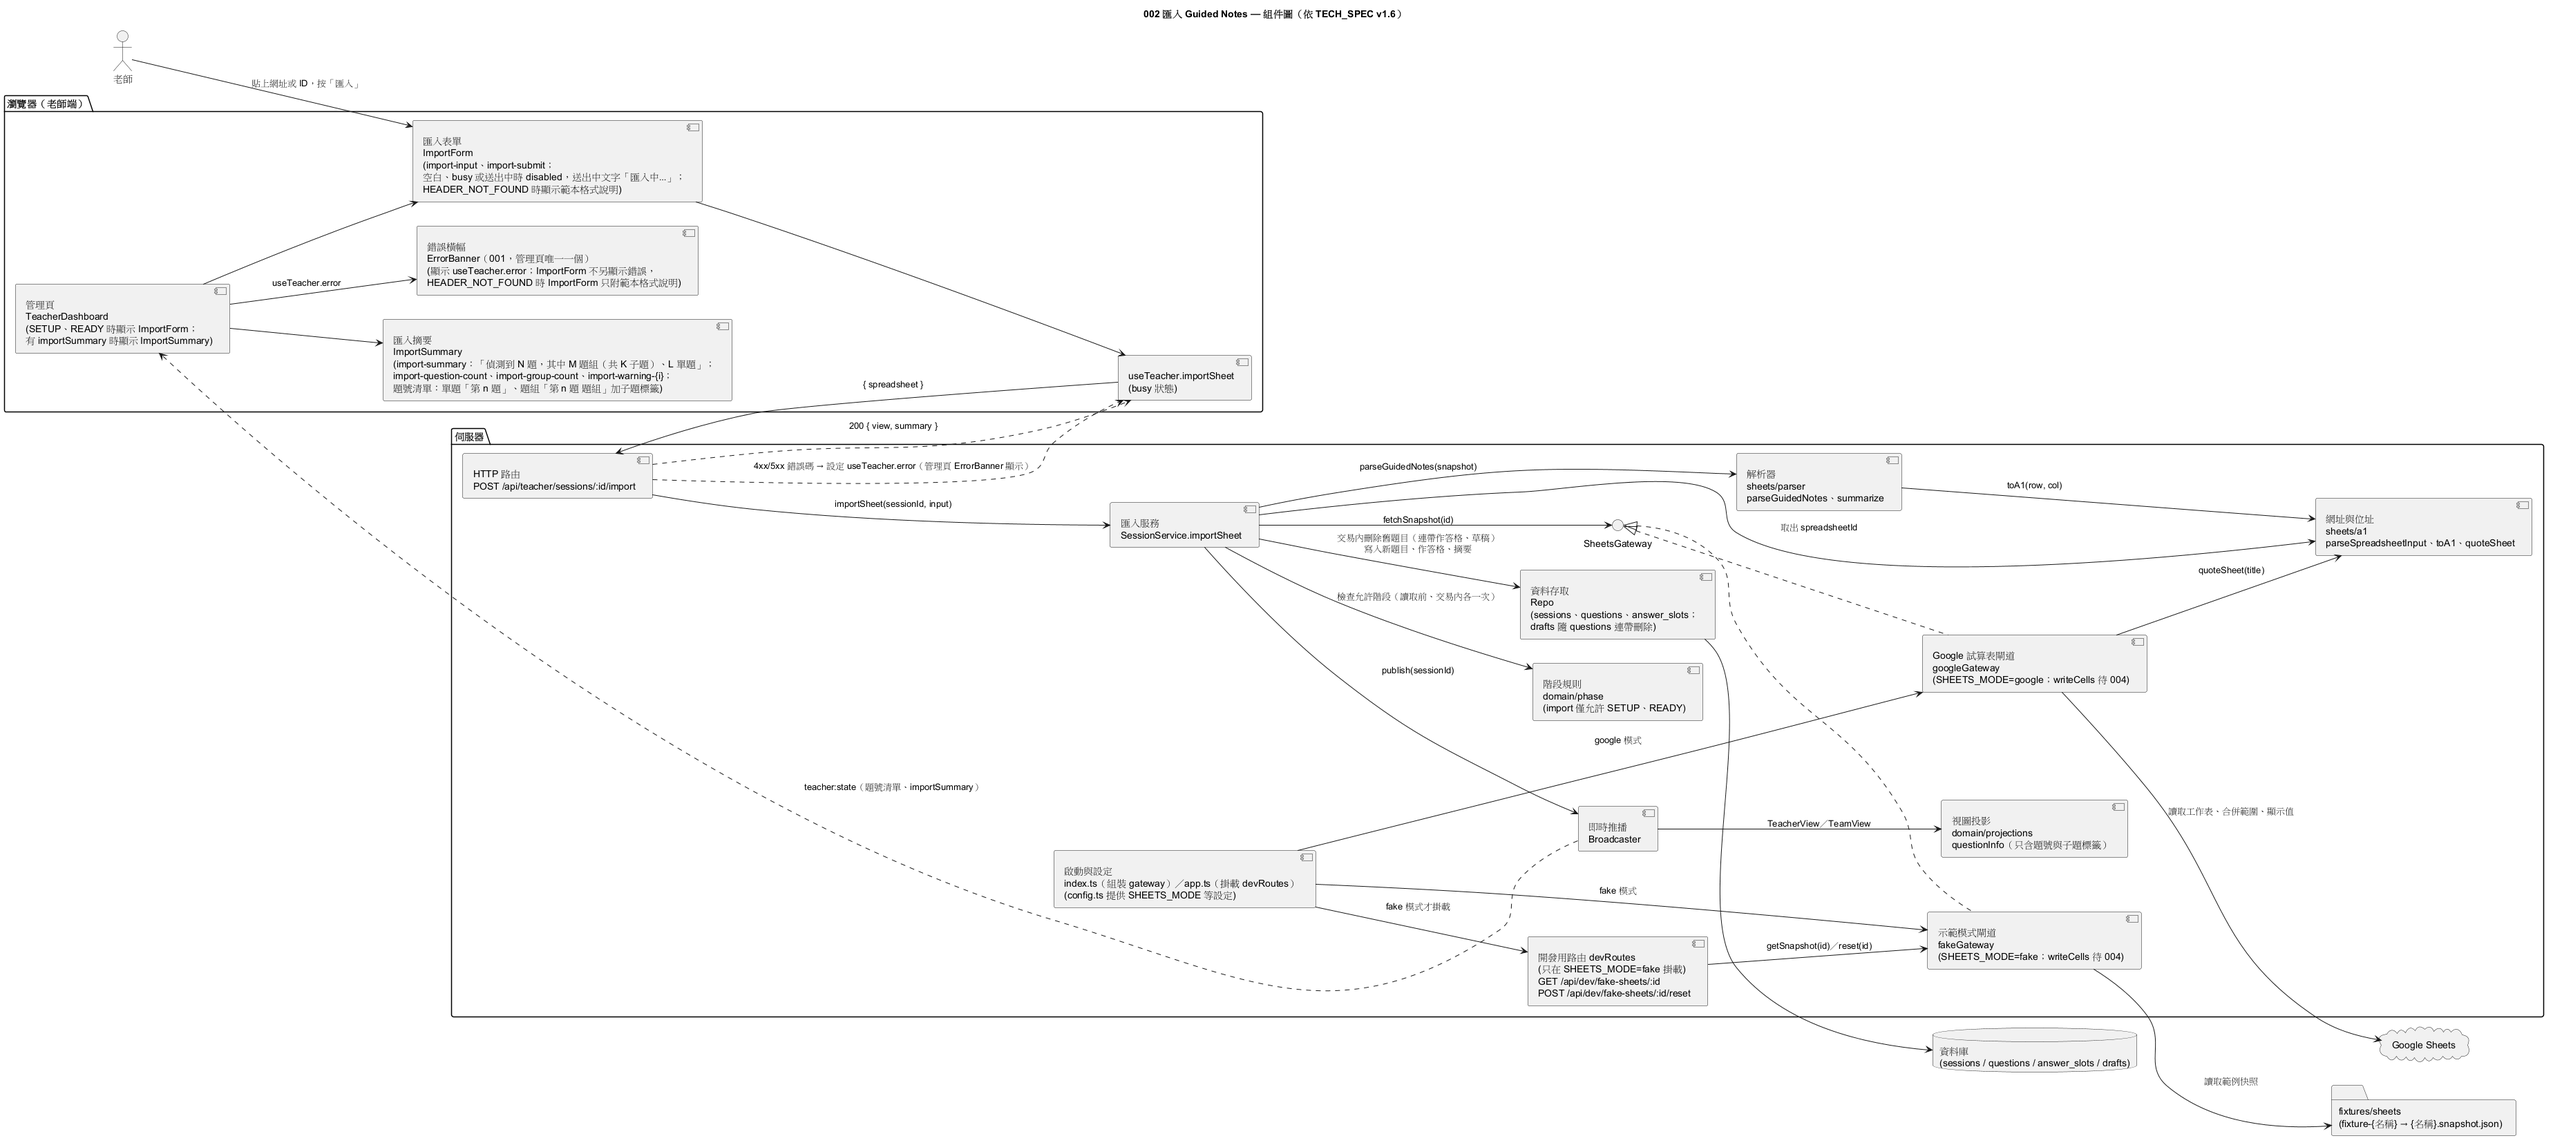
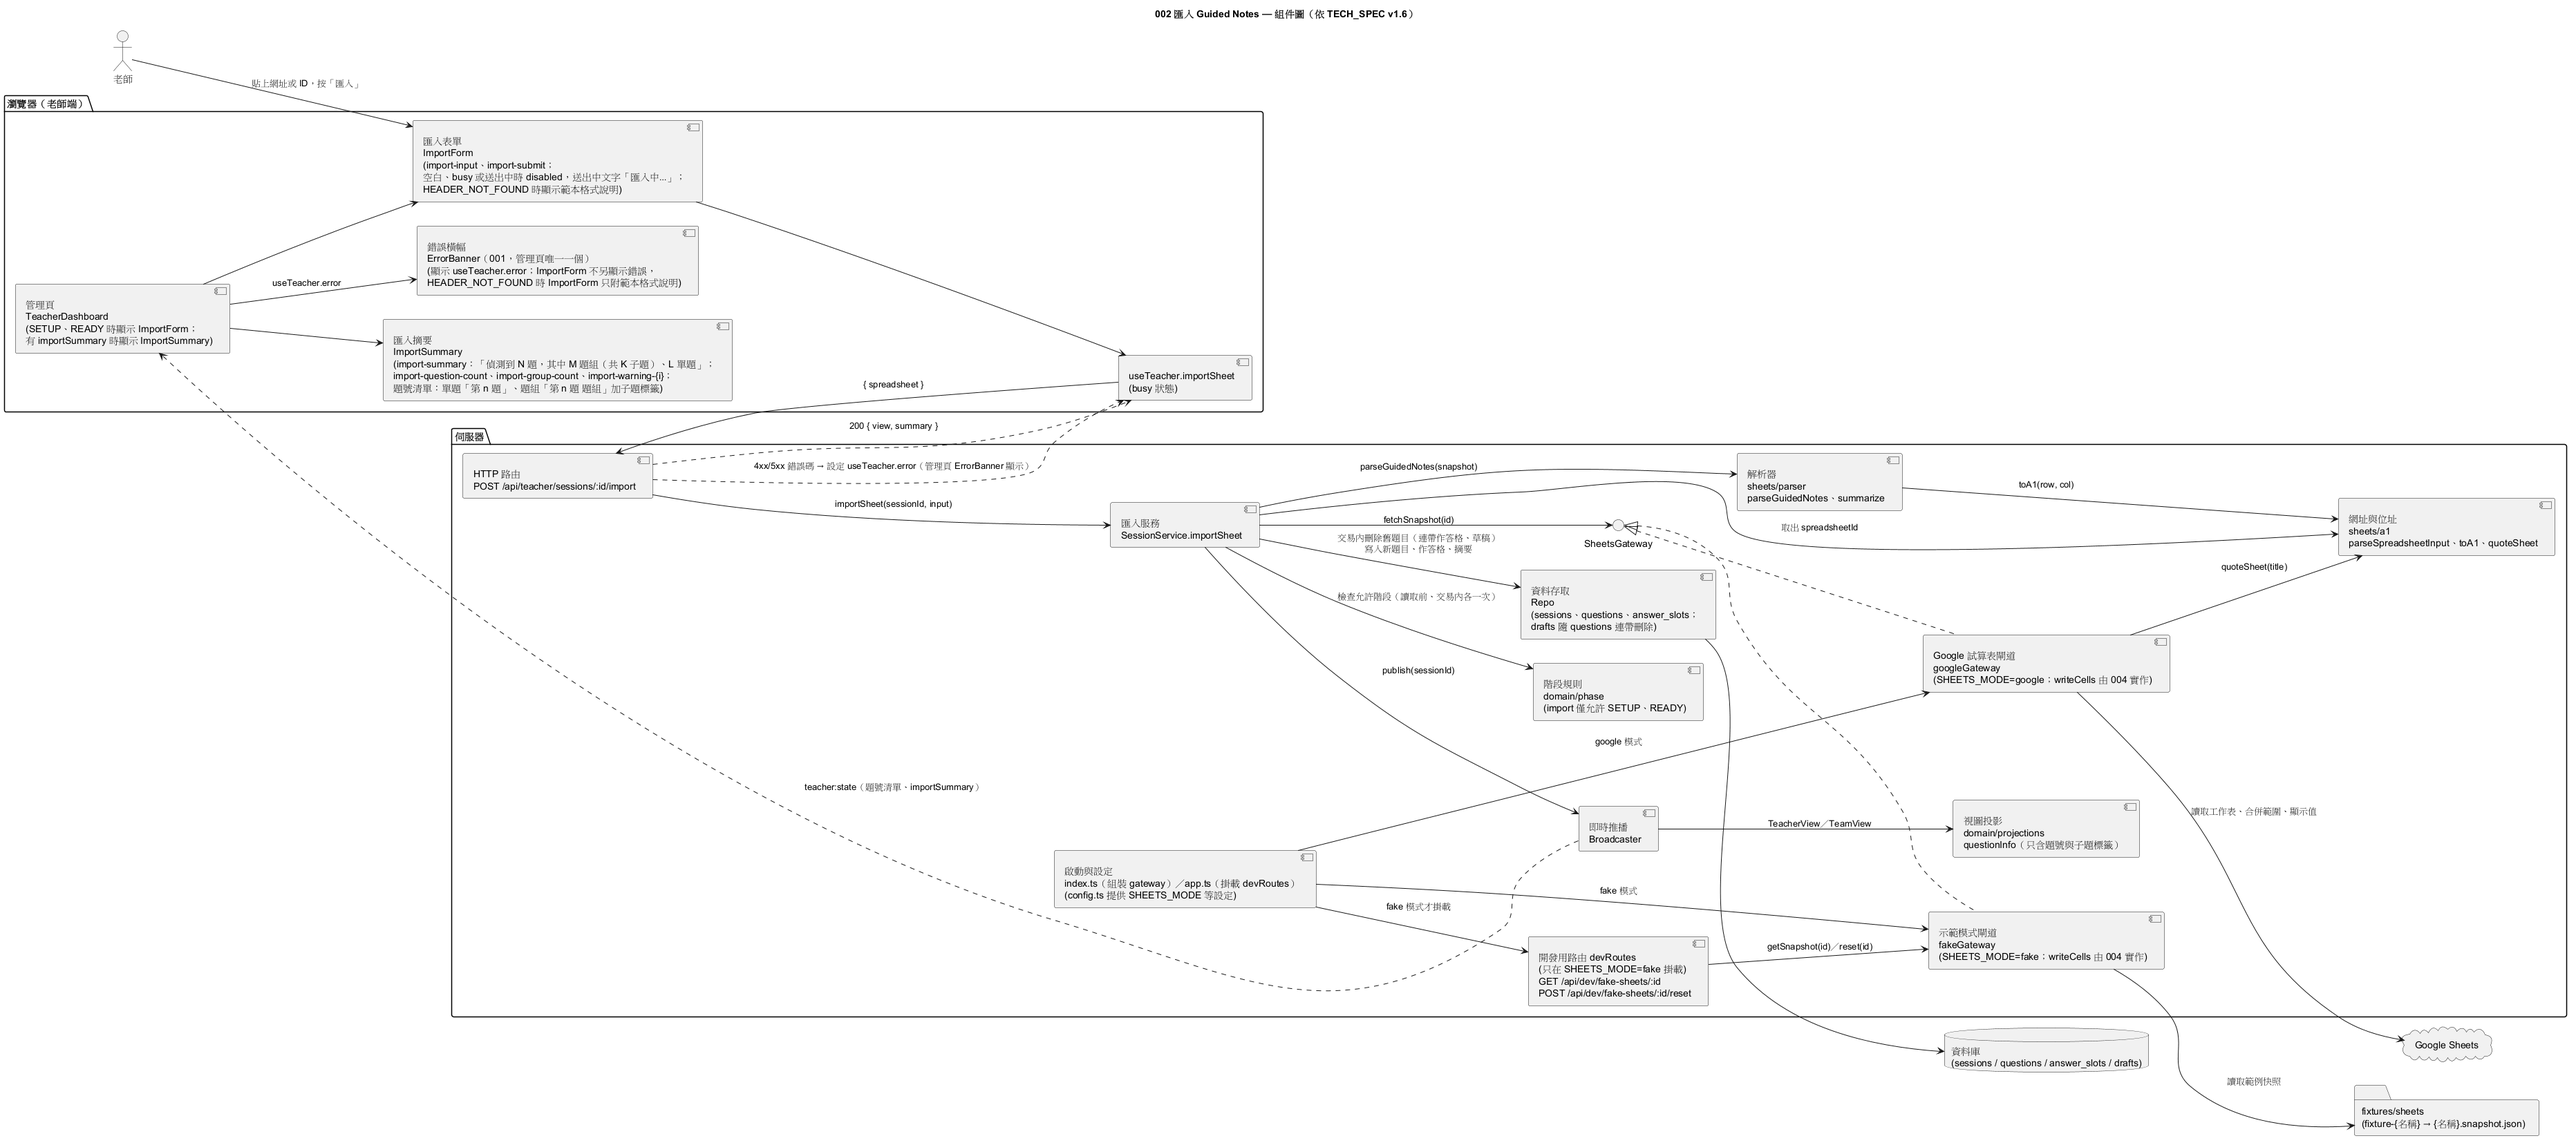
docs(002): sync diagrams with writeCells and fake gateway outDir (T043)

diff --git a/specs/002-guided-notes-import/tasks.md b/specs/002-guided-notes-import/tasks.md
@@ -245,4 +245,4 @@ Task: "T028 UT-UI-IMPORT-02 in client/test/components/ImportSummary.test.tsx"
 ## Phase 5: Convergence
 
 - [ ] T042 [FE] 讓「題號重複」錯誤在管理頁顯示重複的題號（例：「題號重複：2」）per FR-015、US3/AC6 (partial)：伺服器已回 `{ code: 'DUPLICATE_QUESTION_NUMBER', message: '題號重複：2' }`，但 `ErrorBanner` 只以 `messageOf(code)` 顯示固定文字「題號重複」。**先決條件（憲章 II）**：TECH_SPEC §10.6 規定前端只依 `error.code` 顯示 §11 訊息，與 spec FR-015 衝突；實作前先向使用者列出差異（出處、段落、衝突內容），取得同意並修改 TECH_SPEC §10.6（例如：`DUPLICATE_QUESTION_NUMBER` 改顯示伺服器回傳的 `error.message`）後才動程式；本子功能沒有對應的 TEST_SPEC 案例 ID，需要測試時依原則 II 提案新增 ID，不得新增無 ID 的測試（`client/src/components/ErrorBanner.tsx` 或 `client/src/messages.ts`）
-- [ ] T043 [QA] 更新 002 圖表，讓它和目前的程式碼一致 per Constitution XI (contradicts)：`002-class.puml` 的 GoogleSheetsGateway、FakeSheetsGateway 註記「002：writeCells 丟出 SHEETS_ERROR（004 實作）」改為「writeCells 由 004 實作」；`FakeSheetsGateway` 的簽名改為 `createFakeGateway(dir, outDir?)`；`002-component.puml` 的 googleGateway、fakeGateway「writeCells 待 004」同步修正；改完執行 `java -jar plantuml.jar "./diagrams/*.puml"` 重新產生 PNG 並確認無錯誤（`diagrams/002-class.puml`、`diagrams/002-component.puml`、對應 PNG）
+- [X] T043 [QA] 更新 002 圖表，讓它和目前的程式碼一致 per Constitution XI (contradicts)：`002-class.puml` 的 GoogleSheetsGateway、FakeSheetsGateway 註記「002：writeCells 丟出 SHEETS_ERROR（004 實作）」改為「writeCells 由 004 實作」；`FakeSheetsGateway` 的簽名改為 `createFakeGateway(dir, outDir?)`；`002-component.puml` 的 googleGateway、fakeGateway「writeCells 待 004」同步修正；改完執行 `java -jar plantuml.jar "./diagrams/*.puml"` 重新產生 PNG 並確認無錯誤（`diagrams/002-class.puml`、`diagrams/002-component.puml`、對應 PNG）
